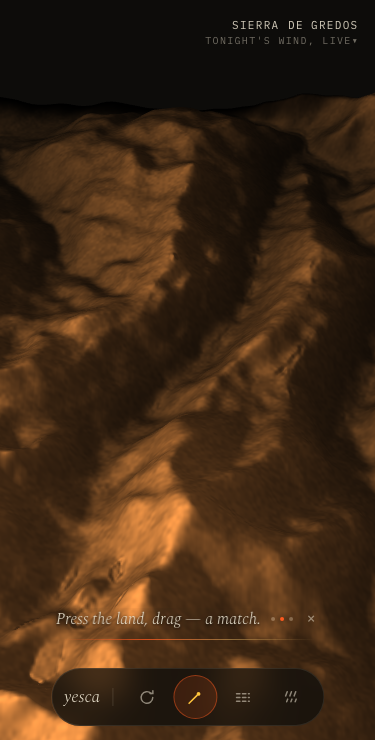
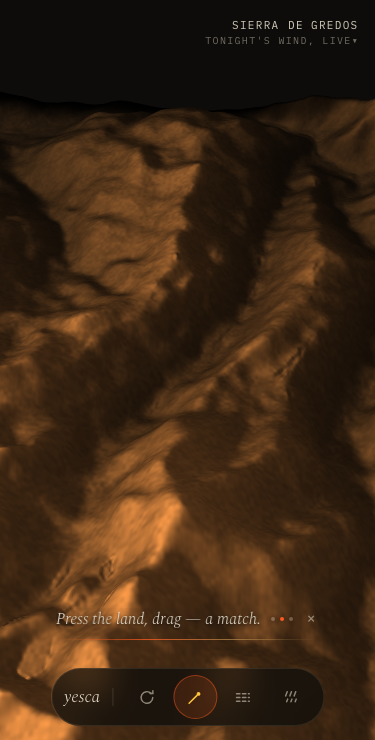
r7 fixes: tour owns the keyboard, wider halo, haptic lever, rm entrance
- Space/Enter no longer stamp during the orbit lesson — the guide poll
  also drops the struckDone skip, and tool state syncs on each transition
  (orbit done -> match, strike done -> break), so canvas data-tool, the
  cursor, and the lit ring always agree with the sentence
- canvas data-tool follows the lesson while guideStep === "orbit" —
  cursor is grab, not a crosshair lying about what the drag does
- burn halo samples a wider ring (13 texels) and lifts the wash so the
  slope facing the fire reads warm, not just rimmed
- NUDGE lever where navigator.vibrate exists — a real haptics off-switch
  alongside the reduced-motion guard (ref-backed so stable handlers see it)
- body.revealed .masthead/.instruments/.rail/.tray join the reduced-motion
  block at equal specificity — the entrance is 1ms under reduce, not 700ms
- share label morphs ("send word" -> "word sent" via TextMorph); the sheet
  anchors to its chip on phones too, clamped inside the viewport
- evidence stills regenerated

Generated with [Devin](https://devin.ai)

diff --git a/src/App.tsx b/src/App.tsx
@@ -107,9 +107,12 @@ export default function App() {
   const struckOnce = useRef(false);
   const brokeOnce = useRef(false);
   const reduced = useRef(prefersReducedMotion());
-  // haptics are motion too — the reduced-motion guard is the opt-out
+  const canBuzz = useRef(typeof navigator !== "undefined" && "vibrate" in navigator);
+  const buzzRef = useRef(true); // ref, not state — stable handlers close over it
+  const [buzzOn, setBuzzOn] = useState(true);
+  // haptics are motion too — the reduced-motion guard and the nudge lever both opt out
   const nudge = () => {
-    if (reduced.current) return;
+    if (reduced.current || !buzzRef.current) return;
     haptics.current.trigger("nudge").catch(() => {});
   };
   const rainDamp = useRef(0);
@@ -280,10 +283,12 @@ export default function App() {
       if (!r) return;
       const orbitDone = r.stage.orbitAccum > 0.5;
       const struckDone = struckOnce.current;
-      if (guideStep === "orbit" && (orbitDone || struckDone)) {
-        setGuideStep(struckDone ? "break" : "strike");
+      if (guideStep === "orbit" && orbitDone) {
+        setGuideStep("strike");
+        setTool("match");
       } else if (guideStep === "strike" && struckDone) {
         setGuideStep("break");
+        setTool("break");
       } else if (guideStep === "break" && brokeOnce.current) {
         finishGuide();
       }
@@ -466,7 +471,7 @@ export default function App() {
       if ((e.key === "Enter" || e.key === " ") && !sheetsOpen && onCanvas && readyRef.current) {
         const r = readyRef.current;
         const t = toolRef.current;
-        if (t !== "orbit") {
+        if (t !== "orbit" && guideStepRef.current !== "orbit") {
           e.preventDefault();
           const c = { u: 0.5, v: 0.5 }; // the heart of the frame
           if (t === "match") {
@@ -568,7 +573,7 @@ export default function App() {
       <canvas
         ref={canvasRef}
         className="stage"
-        data-tool={tool}
+        data-tool={guideStep === "orbit" ? "orbit" : tool}
         role="application"
         aria-label="Wildfire field — drag to paint, use 1–4 to pick a tool, Enter paints at the center of view"
         tabIndex={0}
@@ -659,6 +664,21 @@ export default function App() {
               <span className="lbl">crackle</span>
               <i className="sw" />
             </button>
+            {canBuzz.current && (
+              <button
+                className={`lever ${buzzOn ? "on" : ""}`}
+                onClick={() => {
+                  buzzRef.current = !buzzRef.current;
+                  setBuzzOn(buzzRef.current);
+                  if (buzzRef.current && !reduced.current) haptics.current.trigger("nudge").catch(() => {});
+                }}
+                aria-pressed={buzzOn}
+                title="the land answers in your hand"
+              >
+                <span className="lbl">nudge</span>
+                <i className="sw" />
+              </button>
+            )}
           </div>
 
           {burntKm2 > 0.004 && !shareOpen && guideStep === "done" && (

diff --git a/src/ui/ShareSheet.tsx b/src/ui/ShareSheet.tsx
@@ -1,4 +1,5 @@
 import { useEffect, useRef, useState } from "react";
+import { TextMorph } from "torph/react";
 import { compass, type Place, type Weather } from "../lib/domain";
 
 interface Props {
@@ -92,10 +93,13 @@ export function ShareSheet({ open, onClose, place, weather, burntKm2, capture, a
   }, [open]);
 
   if (!open) return null;
-  const anchored =
-    anchor && window.innerWidth > 700
-      ? { left: anchor.x, bottom: window.innerHeight - anchor.y + 14 }
-      : undefined;
+  const anchored = anchor
+    ? {
+        // grow from the chip everywhere — on narrow screens clamp inside the viewport
+        left: Math.max(12, Math.min(anchor.x, window.innerWidth - Math.min(window.innerWidth * 0.88, 620) - 12)),
+        bottom: window.innerHeight - anchor.y + 14,
+      }
+    : undefined;
   return (
     <div className="sheet-back" onClick={onClose}>
       <div
@@ -116,7 +120,7 @@ export function ShareSheet({ open, onClose, place, weather, burntKm2, capture, a
                 setTimeout(() => setCopied(false), 1600);
               }}
             >
-              {copied ? "word sent" : "send word"}
+              <TextMorph>{copied ? "word sent" : "send word"}</TextMorph>
             </button>
             {img && (
               <a href={img} download={`yesca-${place.name?.replace(/\W+/g, "-").toLowerCase() ?? "hillside"}.png`}>

diff --git a/src/engine/shaders.ts b/src/engine/shaders.ts
@@ -281,9 +281,13 @@ void main() {
   halo += texture(uState, fuv - vec2(uTexel.x * 7.0, uTexel.y * 7.0)).g;
   halo += texture(uState, fuv + vec2(uTexel.x * 7.0, -uTexel.y * 7.0)).g;
   halo += texture(uState, fuv - vec2(uTexel.x * 7.0, -uTexel.y * 7.0)).g;
-  float burnHalo = halo * 0.125;
+  halo += texture(uState, fuv + vec2(uTexel.x * 13.0, uTexel.y * 13.0)).g;
+  halo += texture(uState, fuv - vec2(uTexel.x * 13.0, uTexel.y * 13.0)).g;
+  halo += texture(uState, fuv + vec2(uTexel.x * 13.0, -uTexel.y * 13.0)).g;
+  halo += texture(uState, fuv - vec2(uTexel.x * 13.0, -uTexel.y * 13.0)).g;
+  float burnHalo = halo * 0.105;
   // the fire throws warmth back onto the unburned slope
-  col += uEmber * burnHalo * (0.45 + 0.35 * dif);
+  col += uEmber * burnHalo * (0.55 + 0.4 * dif);
 
   // wet sheen
   col = mix(col, col * vec3(0.82, 0.9, 1.06), clamp(fu.g - 0.45, 0.0, 1.0) * 0.7);

diff --git a/src/index.css b/src/index.css
@@ -553,7 +553,9 @@ body.revealed .rail.dim, body.revealed .instruments.dim {
 
 @media (prefers-reduced-motion: reduce) {
   .guide, .placetray, .sheet, .sheet-back, .offline, .hoverchip, .loading .bar i,
-  .sharechip, .masthead, .instruments, .rail, .tray, .toolflash {
+  .sharechip, .masthead, .instruments, .rail, .tray, .toolflash,
+  body.revealed .masthead, body.revealed .instruments,
+  body.revealed .rail, body.revealed .tray {
     animation-duration: 1ms; animation-delay: 0ms;
   }
   .vane .needle { transition-duration: 200ms; }
